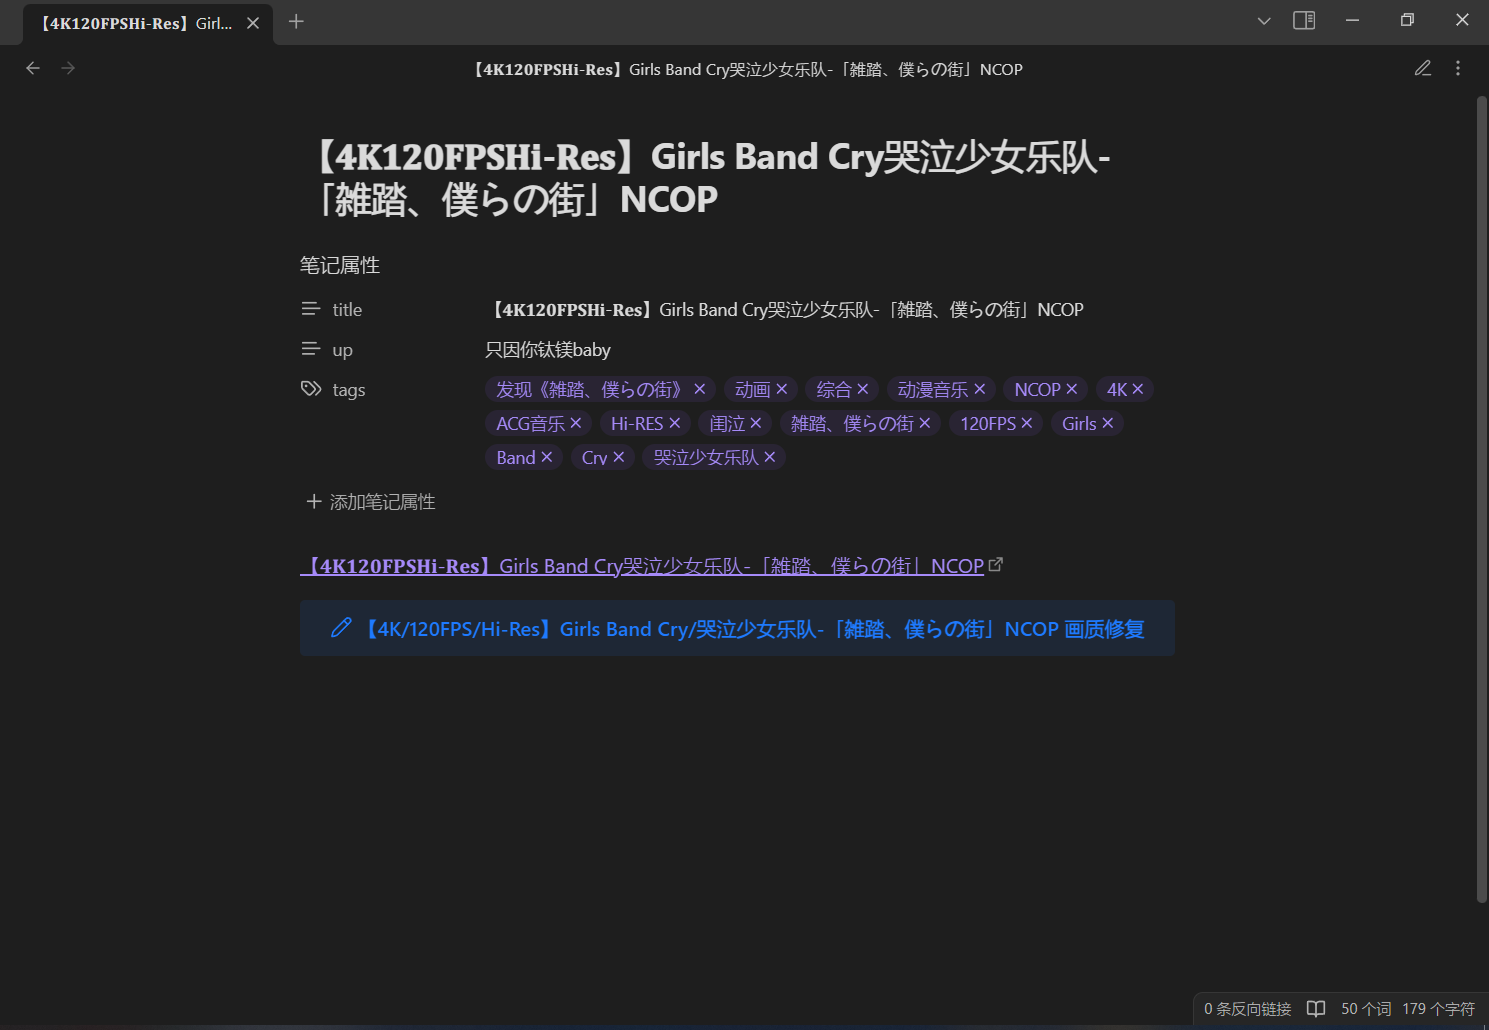
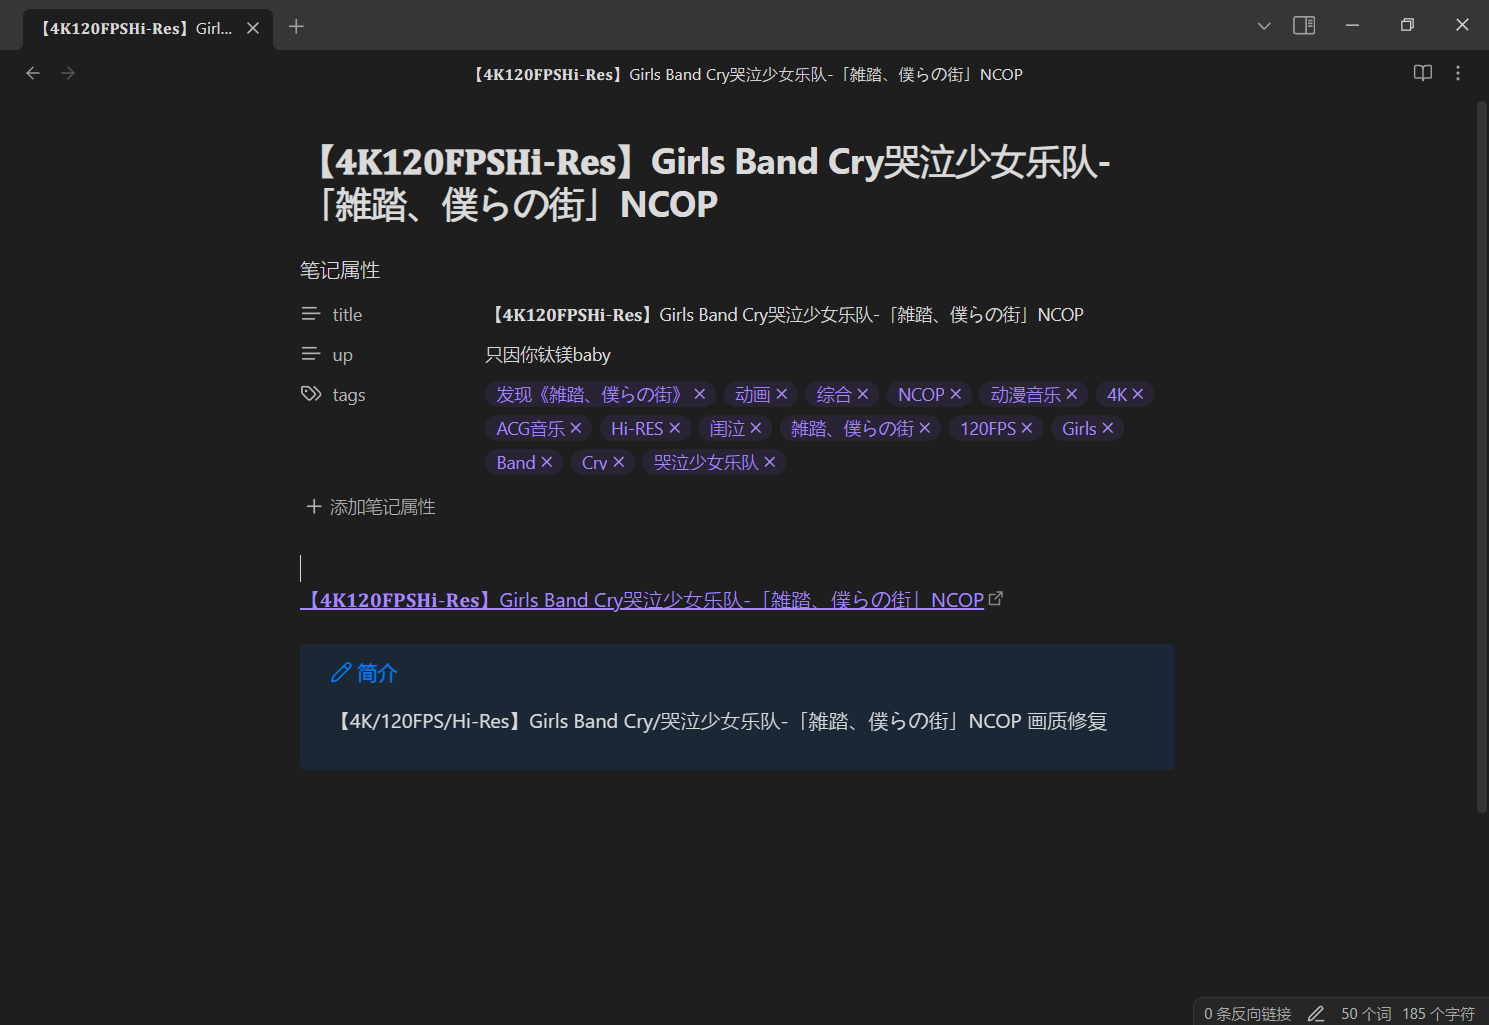
Update

diff --git a/main.py b/main.py
@@ -1,30 +1,73 @@
+#!/usr/bin/env python3
+# coding=utf-8
+# @Author: IceXaga <icexaga@outlook.com>
+
 from bs4 import BeautifulSoup
 import requests
+red = '\033[31m'
+green = '\033[92m'
+yellow = '\033[93m'
+reset = '\033[0m'
 
 headers = {'User-Agent': 'Mozilla/5.0 (Windows NT 10.0; Win64; x64) AppleWebKit/537.36 (KHTML, like Gecko) Chrome/91.0.4472.124 Safari/537.36'}
-while True:
-    bvid = str(input('请输入BV号> '))
-    tagList = []
-    data = requests.get(f'https://api.bilibili.com/x/web-interface/view?bvid={bvid}', headers=headers).json()['data']
-    soup = BeautifulSoup(requests.get(f'https://www.bilibili.com/video/{bvid}', headers=headers).content, 'html.parser')
 
-    tags = soup.find_all(class_='tag-link')
-    for tag in tags:
-        tagList.append(tag.text.strip())
-    
-    info_elements = soup.find_all(class_='desc-info-text')
-    info_text = ' '.join(element.get_text(strip=True) for element in info_elements)
+def get_title_up_name(bvid):
+    try:
+        r = requests.get(f'https://api.bilibili.com/x/web-interface/view?bvid={bvid}', headers=headers)
+        r.raise_for_status()
+        data = r.json()['data']
+        title = data['title']
+        title = title.replace("/", "").replace("\\", "").replace("?", "").replace("*", "").replace(":", "").replace("\"", "").replace("<", "").replace(">", "").replace("|", "")
+        up = data['owner']['name']
+        return title, up
+    except requests.exceptions.RequestException as e:
+        print(f"{red}请求错误: {e}{reset}")
+        return None, None
+    except KeyError as e:
+        print(f"{red}JSON解析错误: 缺少键 {e}{reset}")
+        return None, None
+    except Exception as e:
+        print(f"{red}未知错误: {e}{reset}")
+        return None, None
 
-    title = data['title']
-    up = data['owner']['name']
-    title = title.replace("/", "").replace("\\", "").replace("?", "").replace("*", "").replace(":", "").replace("\"", "").replace("<", "").replace(">", "").replace("|", "")
-    with open(f'{title}.md', mode="w", encoding="utf-8") as f:
-        f.write("---\n")
-        f.write(f"title: {title}\n")
-        f.write(f"up: {up}\n")
-        f.write("tags:\n")
-        for tag in tagList:
-            f.write(f"  - {tag}\n")
-        f.write("---\n\n")
-        f.write(f"[{title}](https://www.bilibili.com/video/{bvid})\n\n")
-        f.write(f"> [!简介] {info_text}")
+def get_tags_info(bvid):
+    try:
+        r = requests.get(f'https://www.bilibili.com/video/{bvid}', headers=headers)
+        r.raise_for_status()
+        soup = BeautifulSoup(r.content, 'html.parser')
+        tags = soup.find_all(class_='tag-link')
+        info_elements = soup.find_all(class_='desc-info-text')
+        info_text = ' '.join(element.get_text(strip=True) for element in info_elements)
+        tagList = [tag.text.strip() for tag in tags]
+        return tagList, info_text
+    except requests.exceptions.RequestException as e:
+        print(f"{red}请求错误: {e}{reset}")
+        return [], ""
+    except Exception as e:
+        print(f"{red}未知错误: {e}{reset}")
+        return [], ""
+
+def write_to_file(bvid, title, up, tagList, info_text):
+    try:
+        with open(f'{title}.md', mode="w", encoding="utf-8") as f:
+            f.write("---\n")
+            f.write(f"title: {title}\n")
+            f.write(f"up: {up}\n")
+            f.write("tags:\n")
+            for tag in tagList:
+                f.write(f"  - {tag}\n")
+            f.write("---\n\n")
+            f.write(f"[{title}](https://www.bilibili.com/video/{bvid})\n\n")
+            f.write(f"> [!简介]\n> {info_text}")
+    except IOError as e:
+        print(f"{red}文件写入错误: {e}{reset}")
+if __name__ == '__main__':
+    while True:
+        bvid = str(input('请输入BV号> '))
+        title, up = get_title_up_name(bvid)
+        if not title or not up:
+            continue
+        tagList, info_text = get_tags_info(bvid)
+        write_to_file(bvid, title, up, tagList, info_text)
+        
+        print(f"{green}已成功生成{reset}{yellow}{title}.md{reset}")

diff --git a/README.md b/README.md
@@ -1,3 +1,5 @@
+
+## 关于
 这个项目是因为我受够了哔哩哔哩那一坨的收藏夹  
 然后想着自己用Obsidian+Markdown来收藏视频  
 但是每次都要写好多太麻烦了  
@@ -7,7 +9,7 @@
 ## 如何使用
 > 首先确保有python3.7以上的环境  
 > 有`bs4`与`requests`库  
->进入项目目录后输入`py main.py`运行  
+>进入项目目录后输入`py main.py`运行  / 将main.py拖入要生成文件的文件夹
 >输入视频bv号自动生成文件  
 
 ```python
